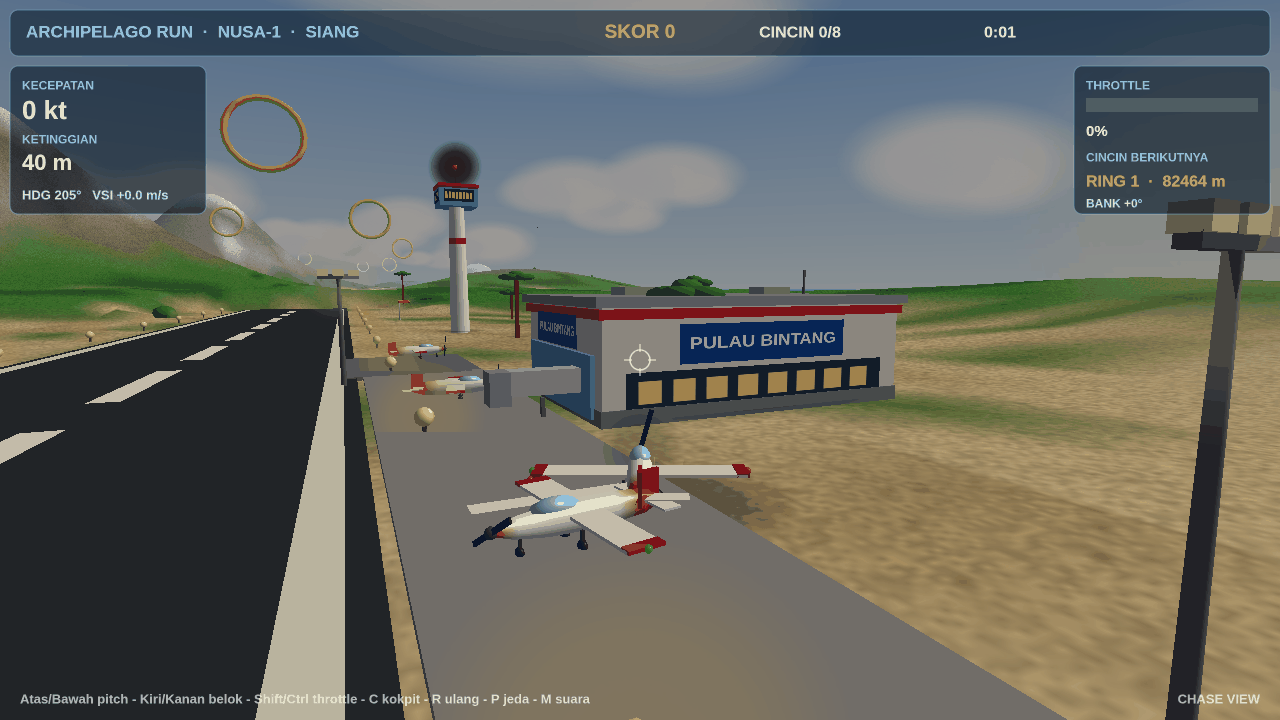
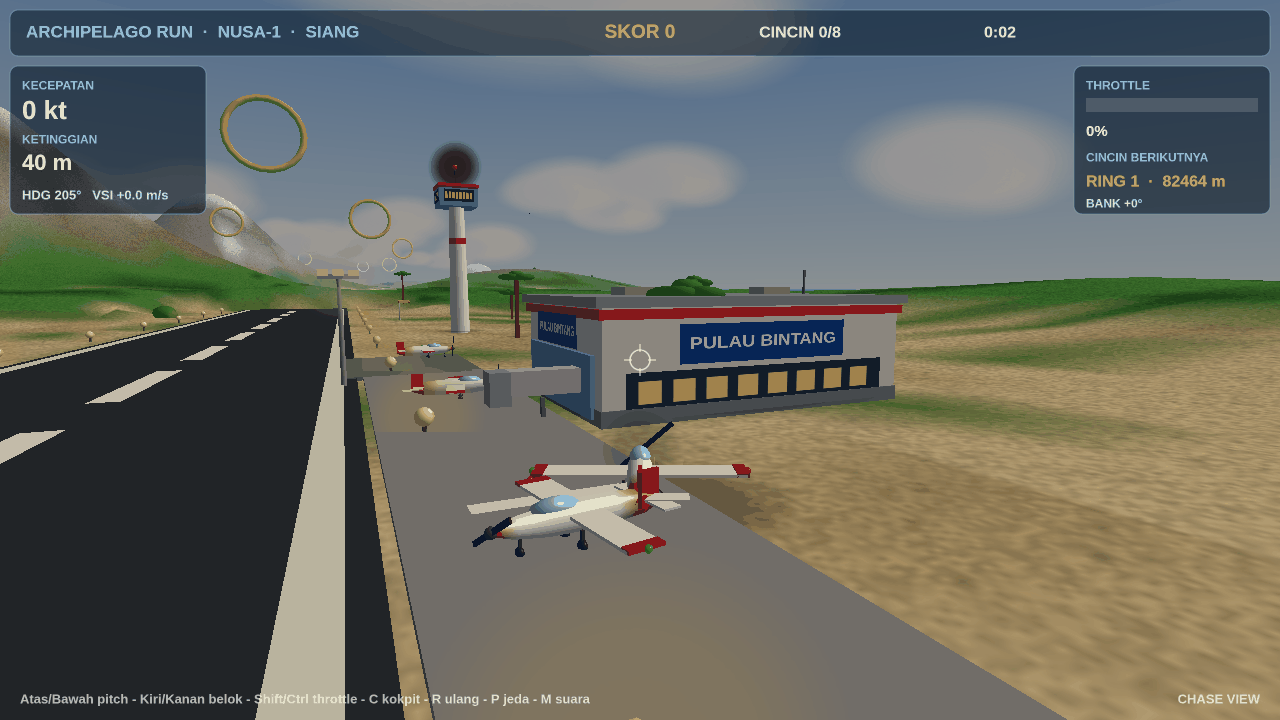
flight v2: move floodlight out of the landed camera's face
- The Bintang floodlight at (58,9170) sat ~28 units from the landed
  camera and read as a giant black stick dominating the right edge
  (user: 'Ini apaan'). Moved it to (95,9170) + its glow, and lightened
  the mast from 0.35 to 0.55 so it never reads as a black bar again.
Playtest 9/9, no JS errors.

diff --git a/game/index.html b/game/index.html
@@ -756,8 +756,8 @@ function buildAirport(){
   // floodlight pole (apron lighting): thin mast + crossbar + 3 lamps
   function floodlight(cx,cz){
     const gy=groundY(cx,cz);
-    meshCylinder(m,cx,gy+9,cz,0.3,0.45,18,0.35,0.35,0.38,6);
-    meshBox(m,cx,gy+18,cz,6,0.8,0.8,0.35,0.35,0.38);
+    meshCylinder(m,cx,gy+9,cz,0.3,0.45,18,0.55,0.55,0.58,6);
+    meshBox(m,cx,gy+18,cz,6,0.8,0.8,0.55,0.55,0.58);
     for(const dx of [-2.2,0,2.2])meshBox(m,cx+dx,gy+18.6,cz,1.6,1,1.2,1.0,0.95,0.75);
   }
   // Pulau Bintang (Runway 27) — the main airport
@@ -767,7 +767,7 @@ function buildAirport(){
   meshBox(m,42,2.2,9046,24,0.8,32,0.42,0.42,0.44); // taxiway 27
   meshFlatQuad(m,[38,2.65,9080],[50,2.65,9080],[50,2.65,9082],[38,2.65,9082],[0,1,0],0.95,0.95,0.9,null,null);
   meshFlatQuad(m,[38,2.65,9136],[50,2.65,9136],[50,2.65,9138],[38,2.65,9138],[0,1,0],0.95,0.95,0.9,null,null);
-  floodlight(30,9070);floodlight(58,9170);
+  floodlight(30,9070);floodlight(95,9170);
   // ops building (white, blue roof) east of the terminal
   meshBox(m,112,groundY(112,9170)+3,9170,12,6,10,0.90,0.90,0.88);
   meshBox(m,112,groundY(112,9170)+6.5,9170,13,1,11,0.25,0.45,0.75);
@@ -1318,7 +1318,7 @@ function render(){
     lamps.push({cx:sx,cy:4.2,cz:cz+k*55,rx:7,ry:7,r:1,g:0.85,b:0.5,d:Math.hypot(sx-eye[0],4.2-eye[1],cz+k*55-eye[2])});
   }
   // floodlight heads (apron lighting)
-  for(const [fx,fz] of [[30,9070],[58,9170],[30,90],[58,150]]){
+  for(const [fx,fz] of [[30,9070],[95,9170],[30,90],[58,150]]){
     lamps.push({cx:fx,cy:20.6,cz:fz,rx:8,ry:8,r:1,g:0.95,b:0.8,d:Math.hypot(fx-eye[0],20.6-eye[1],fz-eye[2])});
   }
   lamps.sort((a,b)=>b.d-a.d);
